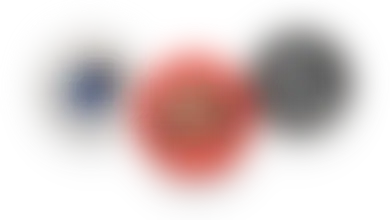
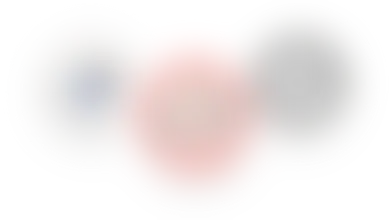
Lighter blur haze behind the text layers
Claude-Session: https://claude.ai/code/session_015srq9B7aamxsEMEASfp4Nc

diff --git a/site/index.html b/site/index.html
@@ -20,9 +20,9 @@
 <link rel="preconnect" href="https://fonts.googleapis.com">
 <link rel="preconnect" href="https://fonts.gstatic.com" crossorigin>
 <link href="https://fonts.googleapis.com/css2?family=Unbounded:wght@400;700;900&family=Instrument+Sans:wght@400;500;600&family=Instrument+Serif:ital@0;1&family=JetBrains+Mono:wght@400;600&display=swap" rel="stylesheet">
-<link rel="stylesheet" href="styles.css?v=105">
+<link rel="stylesheet" href="styles.css?v=106">
 <script src="config.js?v=26"></script>
-<script src="app.js?v=105" defer></script>
+<script src="app.js?v=106" defer></script>
 </head>
 <body>
 <div class="page">

diff --git a/site/app.js b/site/app.js
@@ -583,7 +583,7 @@
     if (BLUR_BITMAPS && name) {
       blur.classList.add('bmp');
       const im = new Image();
-      im.alt = ''; im.decoding = 'async'; im.src = `assets/blur/${name}.webp?v=2`;
+      im.alt = ''; im.decoding = 'async'; im.src = `assets/blur/${name}.webp?v=3`;
       blur.appendChild(im);
       el._twin = { sharp, blur, v: -1, img: im };
       const fit = () => {

diff --git a/tools/blur-layers.py b/tools/blur-layers.py
@@ -14,7 +14,7 @@ for f in sorted(os.listdir(src)):
     rgb = b[..., :3] / np.maximum(b[..., 3:4], 1e-4)
     outp = np.concatenate([np.clip(rgb, 0, 1), b[..., 3:4]], axis=-1)
     # black type would smear as a dark smudge: lift those layers toward white and thin them out
-    light = {'kicker': (.6, .72), 'intro': (.6, .72), 'countdown': (.35, .85)}.get(f[:-4])
+    light = {'kicker': (.7, .6), 'intro': (.7, .6), 'countdown': (.45, .75), 'badges': (.5, .7), 'thirty': (.5, .7)}.get(f[:-4])
     if light:
         outp[..., :3] = outp[..., :3] * (1 - light[0]) + light[0]
         outp[..., 3] *= light[1]
